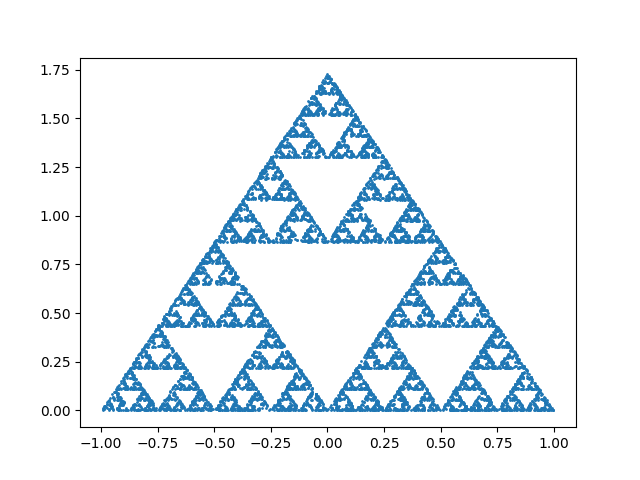
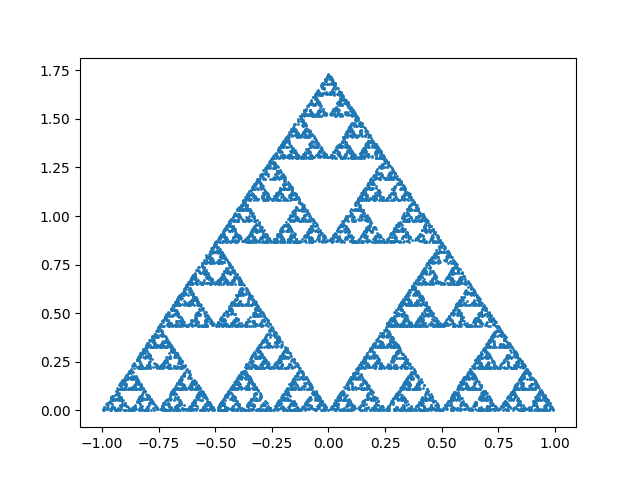
Fixed indexing bug.

diff --git a/p5-version/sketch.js b/p5-version/sketch.js
@@ -1,7 +1,51 @@
 function setup() {
-  // put setup code here
+  createCanvas(400, 400);
 }
 
+function ifsp(attractors, n) {
+    function w(x, attractor) {
+        compression_ratio = attractor['compression_ratio'];
+        return [compression_ratio * x[0] + (1.0 - compression_ratio) * attractor['point'][0], 
+                compression_ratio * x[0] + (1.0 - compression_ratio) * attractor['point'][0]];
+      }
+
+    xs = [0.0] * n;
+    ys = [0.0] * n;
+    x = attractors[0]['point'];
+    m = len(attractors);
+    for (i = 0; i < n; i++) {
+        xs[i] = x[0];
+        ys[i] = x[1];
+        prob_sum = 0.0;
+        attractor_index = None;
+        r = random.random();
+        for i in range(m) {
+            prob_sum += attractors[i]['probability'];
+            if (prob_sum >= r) {
+                if (prob_sum > r) {
+                    attractor_index = i - 1
+                } else {
+                    attractor_index = i
+                }
+
+                break;
+            }
+        }
+        x = w(x, attractors[attractor_index]);
+      }
+     return [xs[20:], ys[20:]];
+  }
+
+
 function draw() {
-  // put drawing code here
+  v_1 = [-1.0, 0.0];
+  v_2 = [1.0, 0.0];
+  v_3 = [0.0, Math.sqrt(3.0)];
+  vs = [v_1, v_2, v_3];
+
+    let attractors = 
+      [{'point': vs[0], 'compression_ratio': 0.5, 'probability': 1.0 / 3.0}, 
+       {'point': vs[1], 'compression_ratio': 0.5, 'probability': 1.0 / 3.0}, 
+       {'point': vs[2], 'compression_ratio': 0.5, 'probability': 1.0 / 3.0}];
+    ifsp(attractors, 1000);
 }

diff --git a/src/integrated_function_system_probabilities.py b/src/integrated_function_system_probabilities.py
@@ -19,13 +19,13 @@ def ifsp(attractors, n, fig_path):
         prob_sum = 0.0
         attractor_index = None
         r = random.random()
-        for i in range(m):
-            prob_sum += attractors[i]['probability']
+        for j in range(m):
+            prob_sum += attractors[j]['probability']
             if prob_sum >= r:
                 if prob_sum > r:
-                    attractor_index = i - 1
+                    attractor_index = j - 1
                 else:
-                    attractor_index = i
+                    attractor_index = j
 
                 break
         x = w(x, attractors[attractor_index])
